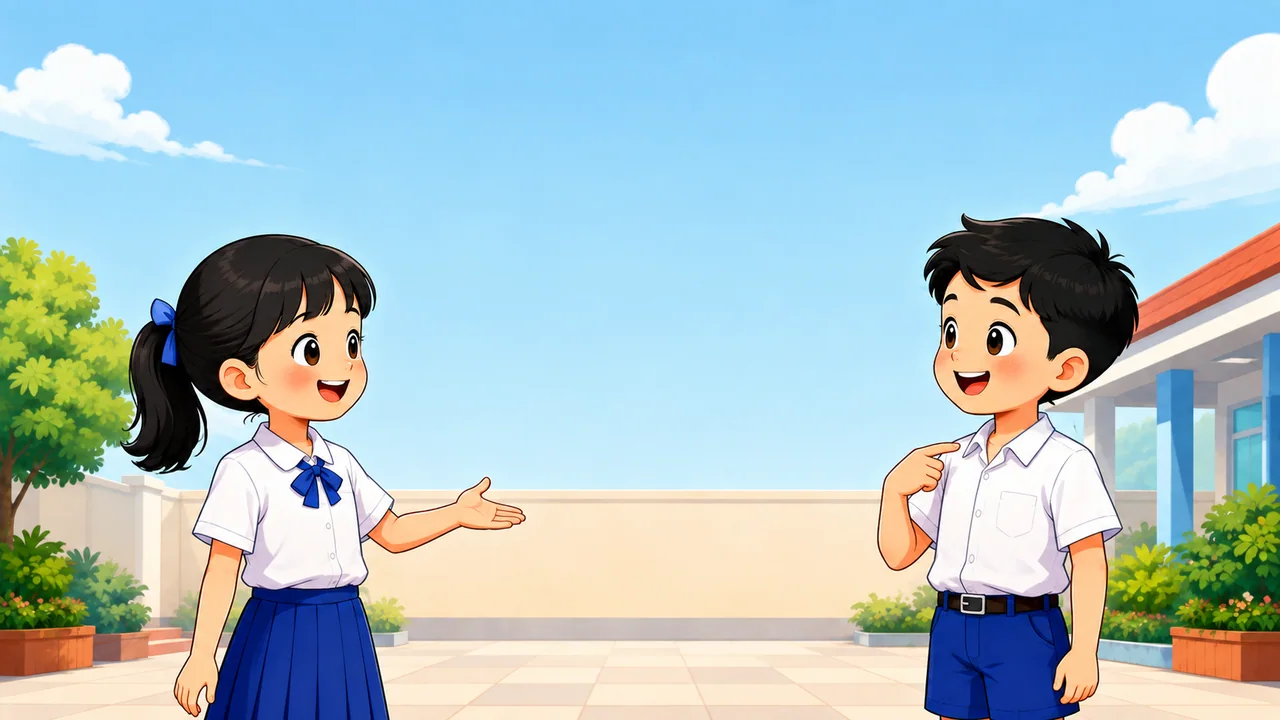
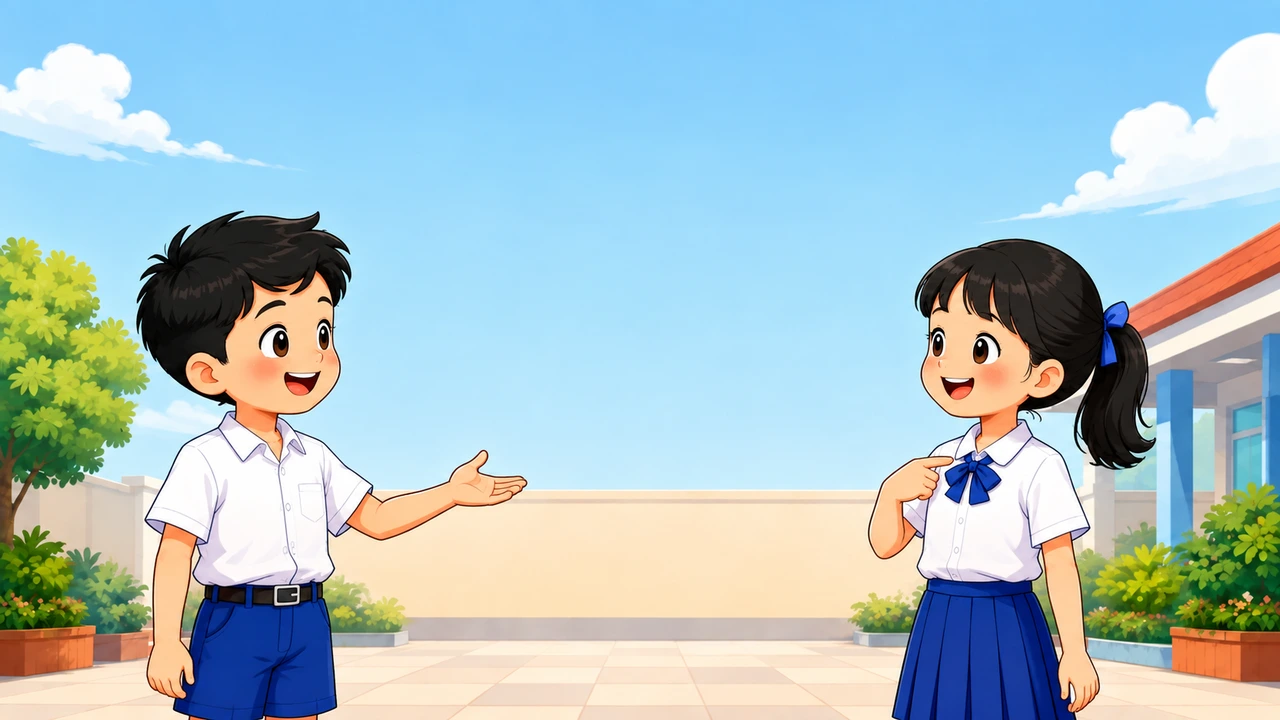
fix: align conversation speaker identities

diff --git a/public/games/english/everyday-conversation-p4-media.html b/public/games/english/everyday-conversation-p4-media.html
@@ -54,6 +54,12 @@
     .field{display:grid;gap:3px;font-size:13px;font-weight:800;color:#d9f2f0}
     .field input,.field select{width:100%;min-height:44px;border:2px solid transparent;border-radius:10px;padding:7px 9px;background:var(--white);color:var(--ink);font:700 16px 'Sarabun',sans-serif}
     .field input:focus,.field select:focus{outline:3px solid var(--gold);border-color:var(--navy)}
+    .voice-choice{border:0;display:grid;gap:5px}.voice-choice legend{font-size:13px;font-weight:800;color:#d9f2f0}
+    .voice-options{display:grid;grid-template-columns:1fr 1fr;gap:7px}
+    .voice-option{position:relative;min-width:0}.voice-option input{position:absolute;inset:0;z-index:1;width:100%;height:100%;opacity:0;cursor:pointer}
+    .voice-option span{min-height:44px;border:2px solid rgba(255,255,255,.34);border-radius:10px;display:grid;place-items:center;background:rgba(255,255,255,.1);color:var(--white);font-weight:800;cursor:pointer}
+    .voice-option input:checked+span{border-color:var(--white);background:var(--gold);color:var(--navy)}
+    .voice-option input:focus-visible+span{outline:3px solid var(--gold);outline-offset:2px}
     .profile-actions{display:grid;grid-template-columns:1fr 1fr;gap:7px}.profile-actions .btn{padding:7px;font-size:14px}
     .btn-apply{grid-column:1/-1;background:var(--gold);border-color:var(--white);color:var(--navy)}
     .btn-reset{background:var(--white);border-color:var(--line);color:var(--navy)}
@@ -216,6 +222,7 @@
           <div class="form-section">
             <h3>ข้อมูลของฉัน</h3>
             <label class="field">ชื่อเล่น (English)<input id="profileName" name="name" maxlength="20" placeholder="Mali"></label>
+            <fieldset class="voice-choice"><legend>เสียงของฉัน</legend><div class="voice-options"><label class="voice-option"><input id="profileVoiceFemale" type="radio" name="profileVoice" value="female" checked><span>เสียงผู้หญิง</span></label><label class="voice-option"><input id="profileVoiceMale" type="radio" name="profileVoice" value="male"><span>เสียงผู้ชาย</span></label></div></fieldset>
             <label class="field">อายุ<select id="profileAge" name="age"><option value="">เลือกอายุ</option><option>8</option><option>9</option><option>10</option><option>11</option><option>12</option></select></label>
             <label class="field">ชั้น / ห้อง<input id="profileGrade" name="grade" maxlength="8" placeholder="4/1"></label>
             <label class="field">สิ่งที่ชอบ (English)<input id="profileLike" name="like" maxlength="24" list="likeOptions" placeholder="football"><datalist id="likeOptions"><option value="football"><option value="badminton"><option value="music"><option value="drawing"><option value="reading"><option value="English"><option value="mangoes"><option value="noodles"></datalist></label>
@@ -333,59 +340,51 @@
 
     const SCENE_VISUALS={
       greetings:[
-        ['greetings/01-meeting-new-friend.webp','เด็กนักเรียนไทยสองคนพบและทักทายเพื่อนใหม่ในลานโรงเรียน'],
-        ['greetings/02-what-is-your-name.webp','เด็กนักเรียนไทยสองคนถามและบอกชื่อของตนเอง'],
-        ['greetings/03-how-old-are-you.webp','เด็กนักเรียนไทยสองคนพูดคุยเรื่องอายุในห้องเรียน'],
-        ['greetings/04-good-morning.webp','เด็กนักเรียนไทยสองคนทักทายกันหน้าโรงเรียนในตอนเช้า'],
-        ['greetings/05-see-you-tomorrow.webp','เด็กนักเรียนไทยสองคนโบกมือลากันหลังเลิกเรียน']
+        ['greetings/01-meeting-new-friend.webp','เด็กหญิงมะลิทางซ้ายทักทายเด็กชายต้นทางขวาในลานโรงเรียน',{A:'female',B:'male'},'A'],
+        ['greetings/02-what-is-your-name.webp','เด็กชายทางซ้ายถามชื่อ และเด็กหญิงแนนทางขวาบอกชื่อของตนเอง',{A:'male',B:'female'},'B'],
+        ['greetings/03-how-old-are-you.webp','เด็กนักเรียนหญิงทางซ้ายและชายทางขวาพูดคุยเรื่องอายุในห้องเรียน',{A:'female',B:'male'},'B'],
+        ['greetings/04-good-morning.webp','เด็กชายโจทางซ้ายและเด็กหญิงพิมทางขวาทักทายกันหน้าโรงเรียนตอนเช้า',{A:'male',B:'female'}],
+        ['greetings/05-see-you-tomorrow.webp','เด็กนักเรียนหญิงทางซ้ายและชายทางขวาโบกมือลากันหลังเลิกเรียน',{A:'female',B:'male'}]
       ],
       personal:[
-        ['personal/01-my-family.webp','เด็กนักเรียนไทยสองคนพูดคุยเรื่องจำนวนสมาชิกในครอบครัว'],
-        ['personal/02-my-best-friend.webp','เพื่อนนักเรียนไทยสองคนพูดคุยกันใต้ต้นไม้ในโรงเรียน'],
-        ['personal/03-where-do-you-live.webp','เด็กนักเรียนไทยสองคนพูดคุยเรื่องบ้านและโรงเรียน'],
-        ['personal/04-do-you-have-a-pet.webp','เด็กนักเรียนไทยสองคนพูดคุยเรื่องสุนัขเลี้ยงในสวนบ้าน'],
-        ['personal/05-my-favorite-subject.webp','เด็กนักเรียนไทยสองคนพูดคุยเรื่องวิชาโปรดในห้องเรียน']
+        ['personal/01-my-family.webp','เด็กนักเรียนหญิงทางซ้ายและชายทางขวาพูดคุยเรื่องจำนวนสมาชิกในครอบครัว',{A:'female',B:'male'},'B'],
+        ['personal/02-my-best-friend.webp','เพื่อนนักเรียนหญิงทางซ้ายและชายทางขวาพูดคุยกันใต้ต้นไม้ในโรงเรียน',{A:'female',B:'male'}],
+        ['personal/03-where-do-you-live.webp','เด็กนักเรียนหญิงทางซ้ายและชายทางขวาพูดคุยเรื่องบ้านและโรงเรียน',{A:'female',B:'male'},'B'],
+        ['personal/04-do-you-have-a-pet.webp','เด็กนักเรียนหญิงทางซ้ายและชายทางขวาพูดคุยเรื่องสุนัขเลี้ยงในสวนบ้าน',{A:'female',B:'male'}],
+        ['personal/05-my-favorite-subject.webp','เด็กนักเรียนหญิงทางซ้ายและชายทางขวาพูดคุยเรื่องวิชาโปรดในห้องเรียน',{A:'female',B:'male'}]
       ],
       classroom:[
-        ['classroom/01-may-i-come-in.webp','นักเรียนไทยขออนุญาตคุณครูเข้าห้องเรียน'],
-        ['classroom/02-may-i-go-out.webp','นักเรียนไทยขออนุญาตคุณครูออกจากห้องเรียน'],
-        ['classroom/03-borrowing-a-pencil.webp','เด็กนักเรียนไทยสองคนให้ยืมดินสอกันในห้องเรียน'],
-        ['classroom/04-please-repeat.webp','นักเรียนไทยขอให้คุณครูพูดคำสั่งซ้ำ'],
-        ['classroom/05-working-together.webp','เด็กนักเรียนไทยสองคนทำงานร่วมกันด้วยตัวต่อ']
+        ['classroom/01-may-i-come-in.webp','นักเรียนหญิงทางซ้ายขออนุญาตคุณครูหญิงทางขวาเข้าห้องเรียน',{A:'female',B:'female'}],
+        ['classroom/02-may-i-go-out.webp','นักเรียนชายทางซ้ายขออนุญาตคุณครูหญิงทางขวาออกจากห้องเรียน',{A:'male',B:'female'}],
+        ['classroom/03-borrowing-a-pencil.webp','เด็กนักเรียนหญิงทางซ้ายและชายทางขวาให้ยืมดินสอกันในห้องเรียน',{A:'female',B:'male'}],
+        ['classroom/04-please-repeat.webp','นักเรียนชายทางซ้ายขอให้คุณครูหญิงทางขวาพูดคำสั่งซ้ำ',{A:'male',B:'female'}],
+        ['classroom/05-working-together.webp','เด็กนักเรียนหญิงทางซ้ายและชายทางขวาทำงานร่วมกันด้วยตัวต่อ',{A:'female',B:'male'}]
       ],
       help:[
-        ['help/01-i-need-some-water.webp','เพื่อนนักเรียนยื่นน้ำให้เด็กที่กำลังกระหายน้ำ'],
-        ['help/02-i-cannot-find-my-book.webp','เพื่อนช่วยหาและยื่นหนังสือสีน้ำเงินที่หายไป'],
-        ['help/03-please-help-me.webp','เด็กนักเรียนไทยสองคนช่วยกันยกกล่อง'],
-        ['help/04-i-do-not-understand.webp','นักเรียนถามคุณครูเกี่ยวกับภาพห้องสมุดที่ไม่เข้าใจ'],
-        ['help/05-i-feel-sick.webp','เพื่อนชี้ทางไปห้องพยาบาลให้เด็กที่ไม่สบาย']
+        ['help/01-i-need-some-water.webp','เด็กหญิงทางซ้ายขอน้ำและเด็กชายทางขวายื่นน้ำให้',{A:'female',B:'male'}],
+        ['help/02-i-cannot-find-my-book.webp','เด็กหญิงทางซ้ายหาหนังสือและเด็กชายทางขวาช่วยยื่นหนังสือสีน้ำเงิน',{A:'female',B:'male'}],
+        ['help/03-please-help-me.webp','เด็กนักเรียนหญิงทางซ้ายและชายทางขวาช่วยกันยกกล่อง',{A:'female',B:'male'}],
+        ['help/04-i-do-not-understand.webp','นักเรียนชายทางซ้ายถามคุณครูหญิงทางขวาเกี่ยวกับภาพห้องสมุด',{A:'male',B:'female'}],
+        ['help/05-i-feel-sick.webp','เด็กหญิงทางซ้ายไม่สบายและเด็กชายทางขวาชี้ทางไปห้องพยาบาล',{A:'female',B:'male'}]
       ],
       feelings:[
-        ['feelings/01-do-you-like-football.webp','เด็กนักเรียนไทยสองคนพูดคุยเรื่องความชอบฟุตบอล'],
-        ['feelings/02-i-am-happy.webp','เพื่อนแสดงความยินดีกับเด็กที่ภูมิใจในผลงาน'],
-        ['feelings/03-i-am-scared.webp','เพื่อนปลอบเด็กที่กลัวพายุฝนฟ้าคะนอง'],
-        ['feelings/04-after-pe-class.webp','เพื่อนถามความรู้สึกหลังเรียนวิชาพลศึกษา'],
-        ['feelings/05-the-school-trip.webp','เด็กนักเรียนไทยสองคนตื่นเต้นเตรียมขึ้นรถทัศนศึกษา']
+        ['feelings/01-do-you-like-football.webp','เด็กนักเรียนชายสองคนพูดคุยเรื่องความชอบฟุตบอล',{A:'male',B:'male'}],
+        ['feelings/02-i-am-happy.webp','เด็กหญิงทางซ้ายแสดงความยินดีกับเด็กชายทางขวาที่ภูมิใจในผลงาน',{A:'female',B:'male'}],
+        ['feelings/03-i-am-scared.webp','เด็กหญิงทางซ้ายปลอบเด็กชายทางขวาที่กลัวพายุฝนฟ้าคะนอง',{A:'female',B:'male'}],
+        ['feelings/04-after-pe-class.webp','เด็กหญิงทางซ้ายถามความรู้สึกเด็กชายทางขวาหลังเรียนพลศึกษา',{A:'female',B:'male'}],
+        ['feelings/05-the-school-trip.webp','เด็กนักเรียนหญิงทางซ้ายและชายทางขวาตื่นเต้นเตรียมขึ้นรถทัศนศึกษา',{A:'female',B:'male'}]
       ],
       school:[
-        ['school/01-todays-timetable.webp','เด็กนักเรียนไทยสองคนคุยกันหน้าแผนภาพตารางเรียน'],
-        ['school/02-where-is-the-library.webp','เพื่อนชี้ทางไปห้องสมุดและบันไดในอาคารเรียน'],
-        ['school/03-at-lunchtime.webp','เด็กนักเรียนไทยสองคนรับประทานอาหารและแบ่งผลไม้'],
-        ['school/04-after-school-club.webp','เด็กนักเรียนไทยสองคนพูดคุยเรื่องชมรมดนตรีและกีตาร์'],
-        ['school/05-sports-day.webp','เด็กนักเรียนไทยสองคนเตรียมแข่งขันกีฬาสีในสนาม']
+        ['school/01-todays-timetable.webp','เด็กนักเรียนหญิงทางซ้ายและชายทางขวาคุยกันหน้าแผนภาพตารางเรียน',{A:'female',B:'male'}],
+        ['school/02-where-is-the-library.webp','เด็กหญิงทางซ้ายถามทางและเด็กชายทางขวาชี้ทางไปห้องสมุด',{A:'female',B:'male'}],
+        ['school/03-at-lunchtime.webp','เด็กนักเรียนหญิงทางซ้ายและชายทางขวารับประทานอาหารและแบ่งผลไม้',{A:'female',B:'male'}],
+        ['school/04-after-school-club.webp','เด็กนักเรียนหญิงทางซ้ายและชายทางขวาพูดคุยเรื่องชมรมดนตรีและกีตาร์',{A:'female',B:'male'}],
+        ['school/05-sports-day.webp','เด็กนักเรียนหญิงทางซ้ายและชายทางขวาเตรียมแข่งขันกีฬาสีในสนาม',{A:'female',B:'male'}]
       ]
     };
     const VISUAL_BASE='everyday-conversation-p4-assets/scenes/';
-    const SCENE_SPEAKERS={
-      greetings:[{A:'female',B:'male'},{A:'female',B:'male'},{A:'female',B:'male'},{A:'female',B:'male'},{A:'female',B:'male'}],
-      personal:[{A:'female',B:'male'},{A:'female',B:'male'},{A:'female',B:'male'},{A:'female',B:'male'},{A:'female',B:'male'}],
-      classroom:[{A:'female',B:'female'},{A:'male',B:'female'},{A:'female',B:'male'},{A:'male',B:'female'},{A:'female',B:'male'}],
-      help:[{A:'female',B:'male'},{A:'female',B:'male'},{A:'female',B:'male'},{A:'male',B:'female'},{A:'female',B:'male'}],
-      feelings:[{A:'male',B:'male'},{A:'female',B:'male'},{A:'female',B:'male'},{A:'female',B:'male'},{A:'female',B:'male'}],
-      school:[{A:'female',B:'male'},{A:'female',B:'male'},{A:'female',B:'male'},{A:'female',B:'male'},{A:'female',B:'male'}]
-    };
     SCENES.forEach(scene=>scene.dialogues.forEach((dialogue,index)=>{
-      const visual=SCENE_VISUALS[scene.id][index];dialogue.image=VISUAL_BASE+visual[0];dialogue.imageAlt=visual[1];dialogue.voiceRoles=SCENE_SPEAKERS[scene.id]?.[index]||{};
+      const visual=SCENE_VISUALS[scene.id][index];dialogue.image=VISUAL_BASE+visual[0];dialogue.imageAlt=visual[1];dialogue.voiceRoles=visual[2];dialogue.profileRole=visual[3]||null;
     }));
 
     const PERSONAL_INTRO={title:'My self-introduction',image:VISUAL_BASE+'myself/01-self-introduction.webp',imageAlt:'นักเรียนไทยยืนแนะนำตัวเองอย่างมั่นใจในห้องเรียน',lines:[
@@ -410,8 +409,8 @@
       ['A','How many people are in your family?','ฮาว เมนี พีเพิล อาร์ อิน ยัวร์ แฟมิลี','ครอบครัวคุณมีกี่คน'],
       ['B','There are {{family}} people in my family.','แดร์ อาร์ {{familyReading}} พีเพิล อิน มาย แฟมิลี','ครอบครัวของฉันมี {{family}} คน']
     ]};
-    PERSONAL_INTRO.voiceRoles={I:'male'};
-    PERSONAL_QA.voiceRoles={A:'female',B:'male'};
+    PERSONAL_INTRO.voiceRoles={I:'female'};PERSONAL_INTRO.profileRole='I';
+    PERSONAL_QA.voiceRoles={A:'female',B:'female'};PERSONAL_QA.profileRole='B';
     const PERSONALIZED_LINES={
       'Hi, Mali. I am Ton.':['Hi, {{name}}. I am Ton.','ไฮ {{name}} ไอ แอม ต้น','สวัสดี {{name}} ฉันชื่อต้น'],
       'Hello! My name is Mali.':['Hello! My name is {{name}}.','เฮลโล มาย เนม อิส {{name}}','สวัสดี ฉันชื่อ {{name}}'],
@@ -423,7 +422,7 @@
       'No, it is near my school.':['No, I live near {{school}}.','โน ไอ ลิฟ เนียร์ {{school}}','ไม่ ฉันอยู่ใกล้ {{school}}']
     };
     const PROFILE_FIELDS=['school','province','name','age','grade','like','family'];
-    const state={scene:0,lesson:0,line:0,mode:'learn',myView:'intro',visualPersonal:false,swapped:false,playing:false,playToken:0,playbackTimer:0,speechGuardTimer:0,karaokeTimer:0,karaokeWordIndex:-1,karaokeSync:'idle',phase:'idle',repeatRemaining:0,useProfile:false,
+    const state={scene:0,lesson:0,line:0,mode:'learn',myView:'intro',visualPersonal:false,swapped:false,playing:false,playToken:0,playbackTimer:0,speechGuardTimer:0,karaokeTimer:0,karaokeWordIndex:-1,karaokeSync:'idle',phase:'idle',repeatRemaining:0,useProfile:false,profileVoice:'female',lastVoiceName:'',
       profile:{school:'',province:'',name:'',age:'',grade:'',like:'',family:''},
       showReading:localStorage.getItem(STORAGE_READING)!=='0',showMeaning:localStorage.getItem(STORAGE_MEANING)!=='0'};
     const $=id=>document.getElementById(id);
@@ -434,12 +433,12 @@
     function saveTeacher(){try{localStorage.setItem('conversation_p4_teacher',JSON.stringify({school:state.profile.school,province:state.profile.province,schoolSpeech:$('schoolSpeech').value}))}catch(_e){}}
     const VOICE_HINTS={female:/\bfemale\b|\bwoman\b|\bgirl\b|samantha|victoria|zira|susan|karen|moira|ava|aria|jenny|salli|libby|hazel/i,male:/\bmale\b|\bman\b|\bboy\b|david|daniel|george|guy|fred|aaron|tom|mark|ravi/i};
     function englishVoices(){return 'speechSynthesis' in window?speechSynthesis.getVoices().filter(voice=>/^en(?:[-_]|$)/i.test(voice.lang)):[]}
-    function voiceForRole(lesson,role){
+    function voiceForKind(kind){
       const voices=englishVoices();if(!voices.length)return null;
-      const kind=lesson.voiceRoles?.[role];
       if(kind){const metadata=voices.find(voice=>String(voice.gender||'').toLowerCase()===kind);if(metadata)return metadata;const hinted=voices.find(voice=>VOICE_HINTS[kind].test((voice.name||'')+' '+(voice.voiceURI||'')));if(hinted)return hinted;}
-      return voices[role==='A'?0:Math.min(1,voices.length-1)];
+      return voices[0];
     }
+    function voiceKindForLine(lesson,role){return state.useProfile&&lesson.profileRole===role?state.profileVoice:lesson.voiceRoles?.[role]}
 
     if(window.KAMPAI){
       try{
@@ -575,7 +574,7 @@
       const targets=speechTargets();
       targets.forEach(el=>{el.innerHTML=line.en.split(/(\s+)/).map(part=>/^\s+$/.test(part)?escapeHtml(part):'<span data-word>'+escapeHtml(part)+'</span>').join('')});
       if('speechSynthesis' in window){
-        try{speechSynthesis.cancel();let spoken=line.en;const school=cleanValue(state.profile.school),alias=cleanValue($('schoolSpeech').value),lesson=currentLesson(),voiceKind=lesson.voiceRoles?.[line.role];if(state.useProfile&&school&&alias)spoken=spoken.replace(school,alias);const displayWords=wordRanges(line.en),spokenWords=wordRanges(spoken),wordMap=speechWordMap(line.en,spoken,displayWords,spokenWords,school,alias);const utterance=new SpeechSynthesisUtterance(spoken);utterance.lang='en-US';utterance.voice=voiceForRole(lesson,line.role);utterance.pitch=voiceKind==='female'?1.08:voiceKind==='male'?0.92:1;utterance.rate=.82;
+        try{speechSynthesis.cancel();let spoken=line.en;const school=cleanValue(state.profile.school),alias=cleanValue($('schoolSpeech').value),lesson=currentLesson(),voiceKind=voiceKindForLine(lesson,line.role);if(state.useProfile&&school&&alias)spoken=spoken.replace(school,alias);const displayWords=wordRanges(line.en),spokenWords=wordRanges(spoken),wordMap=speechWordMap(line.en,spoken,displayWords,spokenWords,school,alias);const utterance=new SpeechSynthesisUtterance(spoken);utterance.lang='en-US';utterance.voice=voiceForKind(voiceKind);state.lastVoiceName=utterance.voice?.name||'';utterance.pitch=voiceKind==='female'?1.08:voiceKind==='male'?0.92:1;utterance.rate=.82;
           utterance.onstart=()=>{if(token!==state.playToken||finished)return;$('dialogue').querySelector('.line.active')?.classList.add('speaking');$('visualSpeech').classList.add('speaking');let fallbackWord=0;const advanceFallback=()=>{if(token!==state.playToken||finished||state.karaokeSync==='boundary')return;showKaraokeWord(targets,wordMap[fallbackWord]??fallbackWord,'fallback');fallbackWord+=1;if(fallbackWord<spokenWords.length)state.karaokeTimer=setTimeout(advanceFallback,Math.max(320,Math.min(720,Math.round(440/utterance.rate))))};state.karaokeTimer=setTimeout(advanceFallback,180)};
           utterance.onboundary=event=>{if(token!==state.playToken||finished)return;let spokenWord=spokenWords.findIndex(word=>event.charIndex>=word.index&&event.charIndex<word.index+word[0].length);if(spokenWord<0)spokenWord=spokenWords.reduce((latest,word,wordIndex)=>word.index<=event.charIndex?wordIndex:latest,-1);if(spokenWord<0)return;clearTimeout(state.karaokeTimer);state.karaokeTimer=0;showKaraokeWord(targets,wordMap[spokenWord]??spokenWord,'boundary')};utterance.onend=utterance.onerror=done;speechSynthesis.speak(utterance);return;}catch(_e){}
       }
@@ -650,7 +649,7 @@
     document.querySelector('.mode-group').addEventListener('click',event=>{const button=event.target.closest('[data-mode]');if(button)setMode(button.dataset.mode);});
     $('profileForm').addEventListener('submit',event=>event.preventDefault());
     $('profileForm').addEventListener('input',event=>{
-      const field=event.target;if(!field.name||!PROFILE_FIELDS.includes(field.name))return;
+      const field=event.target;if(field.name==='profileVoice'){stopPlayback();state.profileVoice=field.value;return;}if(!field.name||!PROFILE_FIELDS.includes(field.name))return;
       state.profile[field.name]=field.value;if(field.name!=='school'&&field.name!=='province')state.useProfile=true;saveTeacher();stopPlayback();renderDialogue();renderProfileStatus();updateVisibility();
     });
     $('profileForm').addEventListener('click',event=>{
@@ -670,7 +669,7 @@
     $('kbtn-tts')?.addEventListener('click',stopPlayback);
     $('btnNewStudent').addEventListener('click',()=>{
       stopPlayback();['name','age','grade','like','family'].forEach(key=>{state.profile[key]='';$('profile'+key[0].toUpperCase()+key.slice(1)).value=''});
-      state.useProfile=false;state.myView='intro';state.line=0;setMode('myself');$('profileName').focus();
+      state.profileVoice='female';$('profileVoiceFemale').checked=true;state.useProfile=false;state.myView='intro';state.line=0;setMode('myself');$('profileName').focus();
     });
     $('btnPrev').addEventListener('click',()=>{stopPlayback();if(state.line>0)selectLine(state.line-1);else changeLesson(-1);});
     $('btnNext').addEventListener('click',()=>{stopPlayback();if(state.line<currentLesson().lines.length-1)selectLine(state.line+1);else changeLesson(1);});
@@ -687,7 +686,7 @@
     window.addEventListener('pagehide',stopPlayback);
 
     window.EverydayConversationP4=Object.freeze({
-      getState:()=>Object.freeze({scene:state.scene,lesson:state.lesson,line:state.line,mode:state.mode,myView:state.myView,visualPersonal:state.visualPersonal,playing:state.playing,phase:state.phase,repeatRemaining:state.repeatRemaining,karaokeWordIndex:state.karaokeWordIndex,karaokeSync:state.karaokeSync,activeRole:currentLesson().lines[state.line][0],image:currentLesson().image,imageAlt:currentLesson().imageAlt,useProfile:state.useProfile,profile:Object.freeze({...profileValues()}),profileComplete:profileComplete(),dialogues:SCENES.reduce((sum,scene)=>sum+scene.dialogues.length,0),personalLines:Object.freeze(personalLesson().lines.map(line=>Object.freeze({...resolveSourceLine(line,false)})))}),
+      getState:()=>Object.freeze({scene:state.scene,lesson:state.lesson,line:state.line,mode:state.mode,myView:state.myView,visualPersonal:state.visualPersonal,playing:state.playing,phase:state.phase,repeatRemaining:state.repeatRemaining,karaokeWordIndex:state.karaokeWordIndex,karaokeSync:state.karaokeSync,activeRole:currentLesson().lines[state.line][0],activeVoiceKind:voiceKindForLine(currentLesson(),currentLesson().lines[state.line][0]),lastVoiceName:state.lastVoiceName,profileVoice:state.profileVoice,image:currentLesson().image,imageAlt:currentLesson().imageAlt,useProfile:state.useProfile,profile:Object.freeze({...profileValues()}),profileComplete:profileComplete(),dialogues:SCENES.reduce((sum,scene)=>sum+scene.dialogues.length,0),personalLines:Object.freeze(personalLesson().lines.map(line=>Object.freeze({...resolveSourceLine(line,false)})))}),
       scenes:Object.freeze(SCENES.map(scene=>Object.freeze({id:scene.id,count:scene.dialogues.length,indicator:scene.indicator})))
     });
     render();setMode('learn');

diff --git a/src/components/admin/system/SystemOverview.tsx b/src/components/admin/system/SystemOverview.tsx
@@ -290,6 +290,16 @@ const mediaRoadmap = {
 
 const versionHistory = [
     {
+        version: 'v1.229.44 (Everyday Conversation — speaker identity)',
+        date: '10 ก.ย. 2569',
+        badge: 'bg-cyan-700',
+        items: [
+            'แก้บท Nan และ Joe/Pim ให้ชื่อ ตัวละคร A/B ภาพ และเสียงชาย–หญิงตรงกันทั้งไดอะล็อกและฉากพูดได้',
+            'รวม metadata ภาพกับเพศผู้พูด ลดความเสี่ยงจากรายการคู่ขนานเรียงผิด และไม่ใช้ลำดับ voice ของ browser เป็นเพศสำรอง',
+            'เพิ่มตัวเลือกเสียงหญิง/ชายสำหรับข้อมูลเด็กแบบ session-only โดยไม่มีเสียงอัตโนมัติและไม่บันทึกข้อมูลส่วนตัว',
+        ],
+    },
+    {
         version: 'v1.229.43 (Fresh-open worksheet seeds — หารยาว/หารสั้น/แปลงจำนวนคละ)',
         date: '10 ก.ย. 2569',
         badge: 'bg-blue-600',
